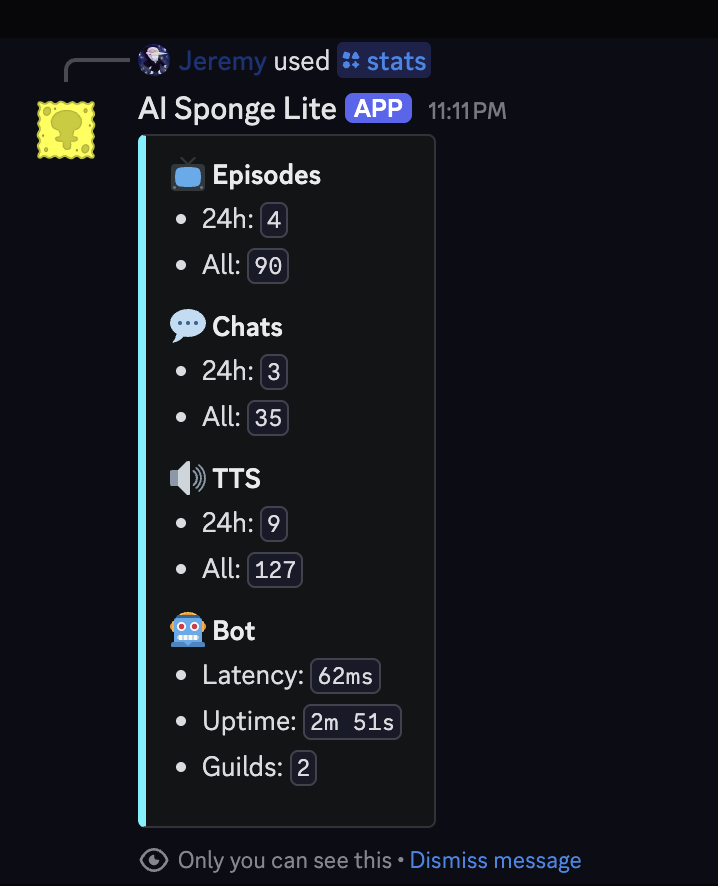
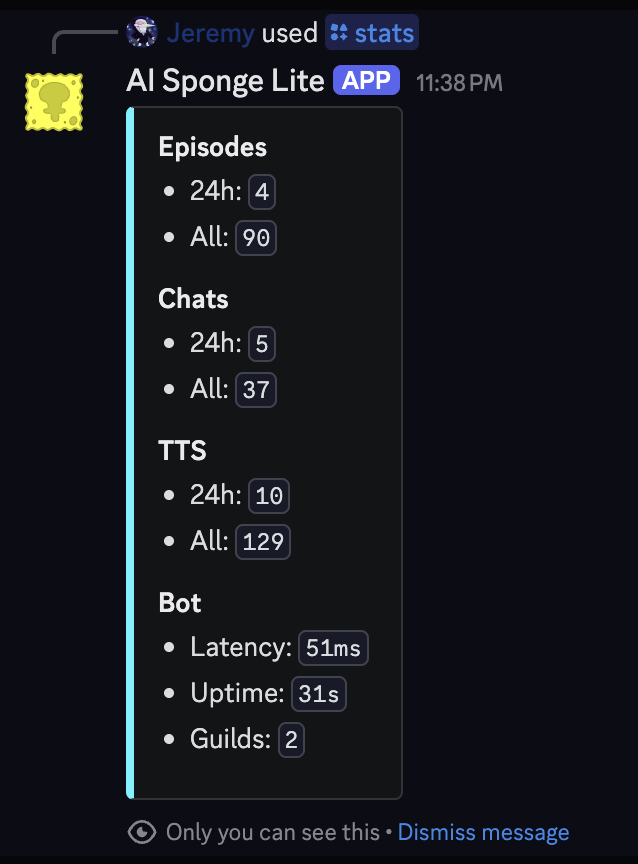
remove emojis from stats

Changed region(s): [[0.0298, 0.0, 0.8934, 1.0]]

diff --git a/main.py b/main.py
@@ -447,10 +447,10 @@ async def stats(inter: discord.Interaction):
     if seconds > 0:
         uptime_formatted += f"{seconds}s"
     await inter.response.send_message(embed=discord.Embed(color=embed_color_command_successful)
-                                      .add_field(name="📺 Episodes", value=f"- 24h: `{episodes_24h}`\n- All: `{episodes_all}`", inline=False)
-                                      .add_field(name="💬 Chats", value=f"- 24h: `{chats_24h}`\n- All: `{chats_all}`", inline=False)
-                                      .add_field(name="🔊 TTS", value=f"- 24h: `{tts_24h}`\n- All: `{tts_all}`", inline=False)
-                                      .add_field(name="🤖 Bot", value=f"- Latency: `{int(1000 * client.latency)}ms`\n- Uptime: `{uptime_formatted}`\n- Guilds: `{len(client.guilds)}`", inline=False),
+                                      .add_field(name="Episodes", value=f"- 24h: `{episodes_24h}`\n- All: `{episodes_all}`", inline=False)
+                                      .add_field(name="Chats", value=f"- 24h: `{chats_24h}`\n- All: `{chats_all}`", inline=False)
+                                      .add_field(name="TTS", value=f"- 24h: `{tts_24h}`\n- All: `{tts_all}`", inline=False)
+                                      .add_field(name="Bot", value=f"- Latency: `{int(1000 * client.latency)}ms`\n- Uptime: `{uptime_formatted}`\n- Guilds: `{len(client.guilds)}`", inline=False),
                                       ephemeral=True, delete_after=embed_delete_after)
 
 
